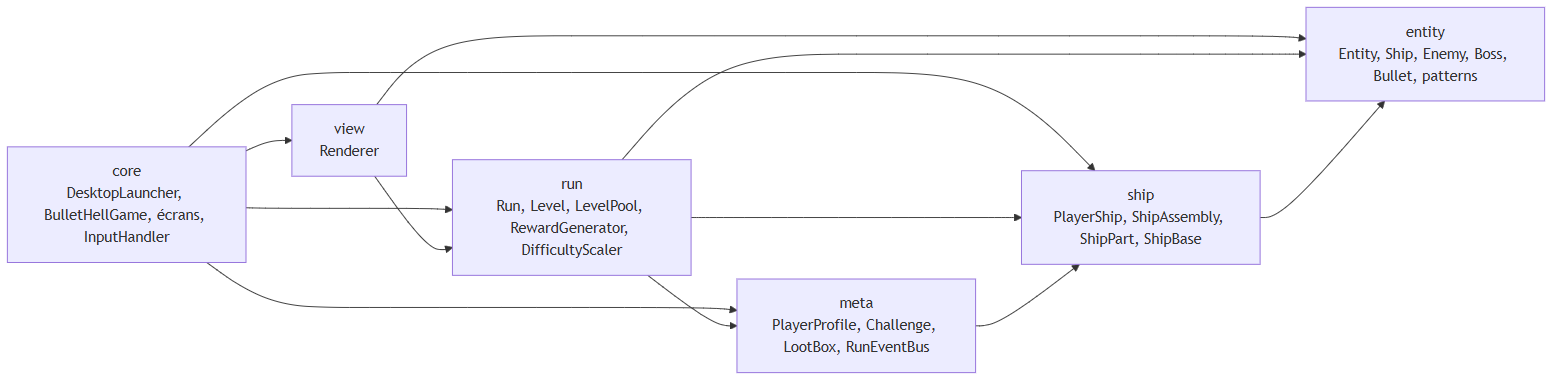
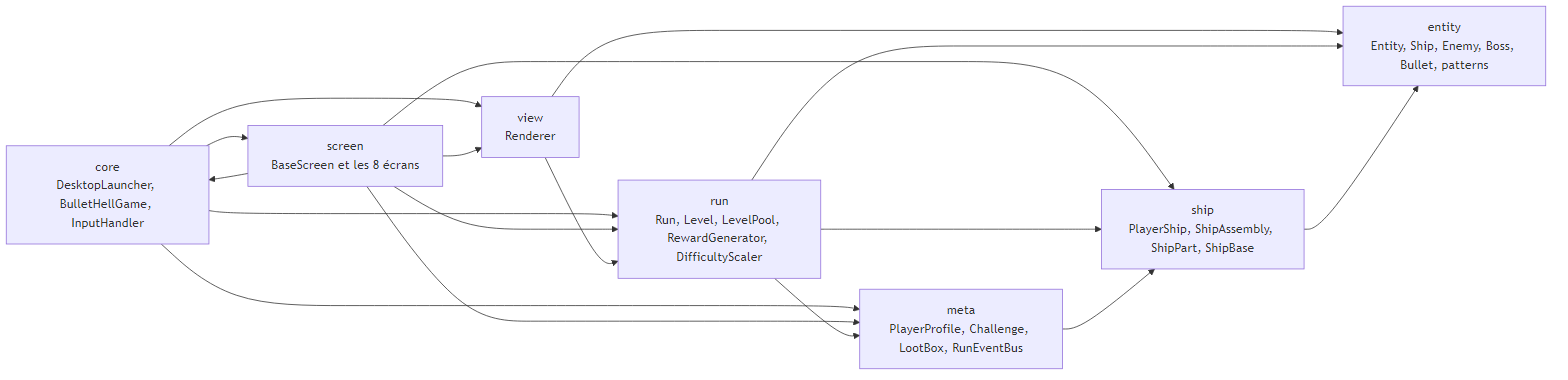
vault: 2026-11-09 15:03

diff --git a/content/2D-Game/taches/commun/Socle.md b/content/2D-Game/taches/commun/Socle.md
@@ -8,8 +8,8 @@ Tout le reste en dépend. À faire ensemble, en une séance, avant de se répart
 
 Retour : [[2D-Game/taches/commun/index|Tâches communes]] · [[2D-Game/ideas/pierre/Bullet hell roguelike - UML|UML]] §2, §3.2
 
-- [x] Créer les paquets `core`, `view`, `run`, `meta`, `ship` et `entity` dans `com.mygame`
+- [x] Créer les paquets `core`, `screen`, `view`, `run`, `meta`, `ship` et `entity` dans `com.mygame`
 - [x] Coder `Entity` (abstraite), `Damageable`, `Ship` (abstraite), `Bullet`, `Faction` et `BulletPool`
 - [x] Écrire les **interfaces** dont l'autre a besoin, sans les implémenter : `BulletPattern`, `MovementPattern`, `BossPhase`, `RunListener`, `RunEvent` (sealed)
-- [x] Coder `BaseScreen` (**classe abstraite**, étend `ScreenAdapter`) : `render()` appelle `update()` puis `draw()`, qui restent abstraites. `Screen` est l'interface fournie par LibGDX, on ne l'écrit pas
+- [x] Coder `BaseScreen` dans `screen` (**classe abstraite**, étend `ScreenAdapter`) : `render()` appelle `update()` puis `draw()`, qui restent abstraites. `Screen` est l'interface fournie par LibGDX, on ne l'écrit pas
 - [ ] Ajouter JUnit 5 au `pom.xml`
